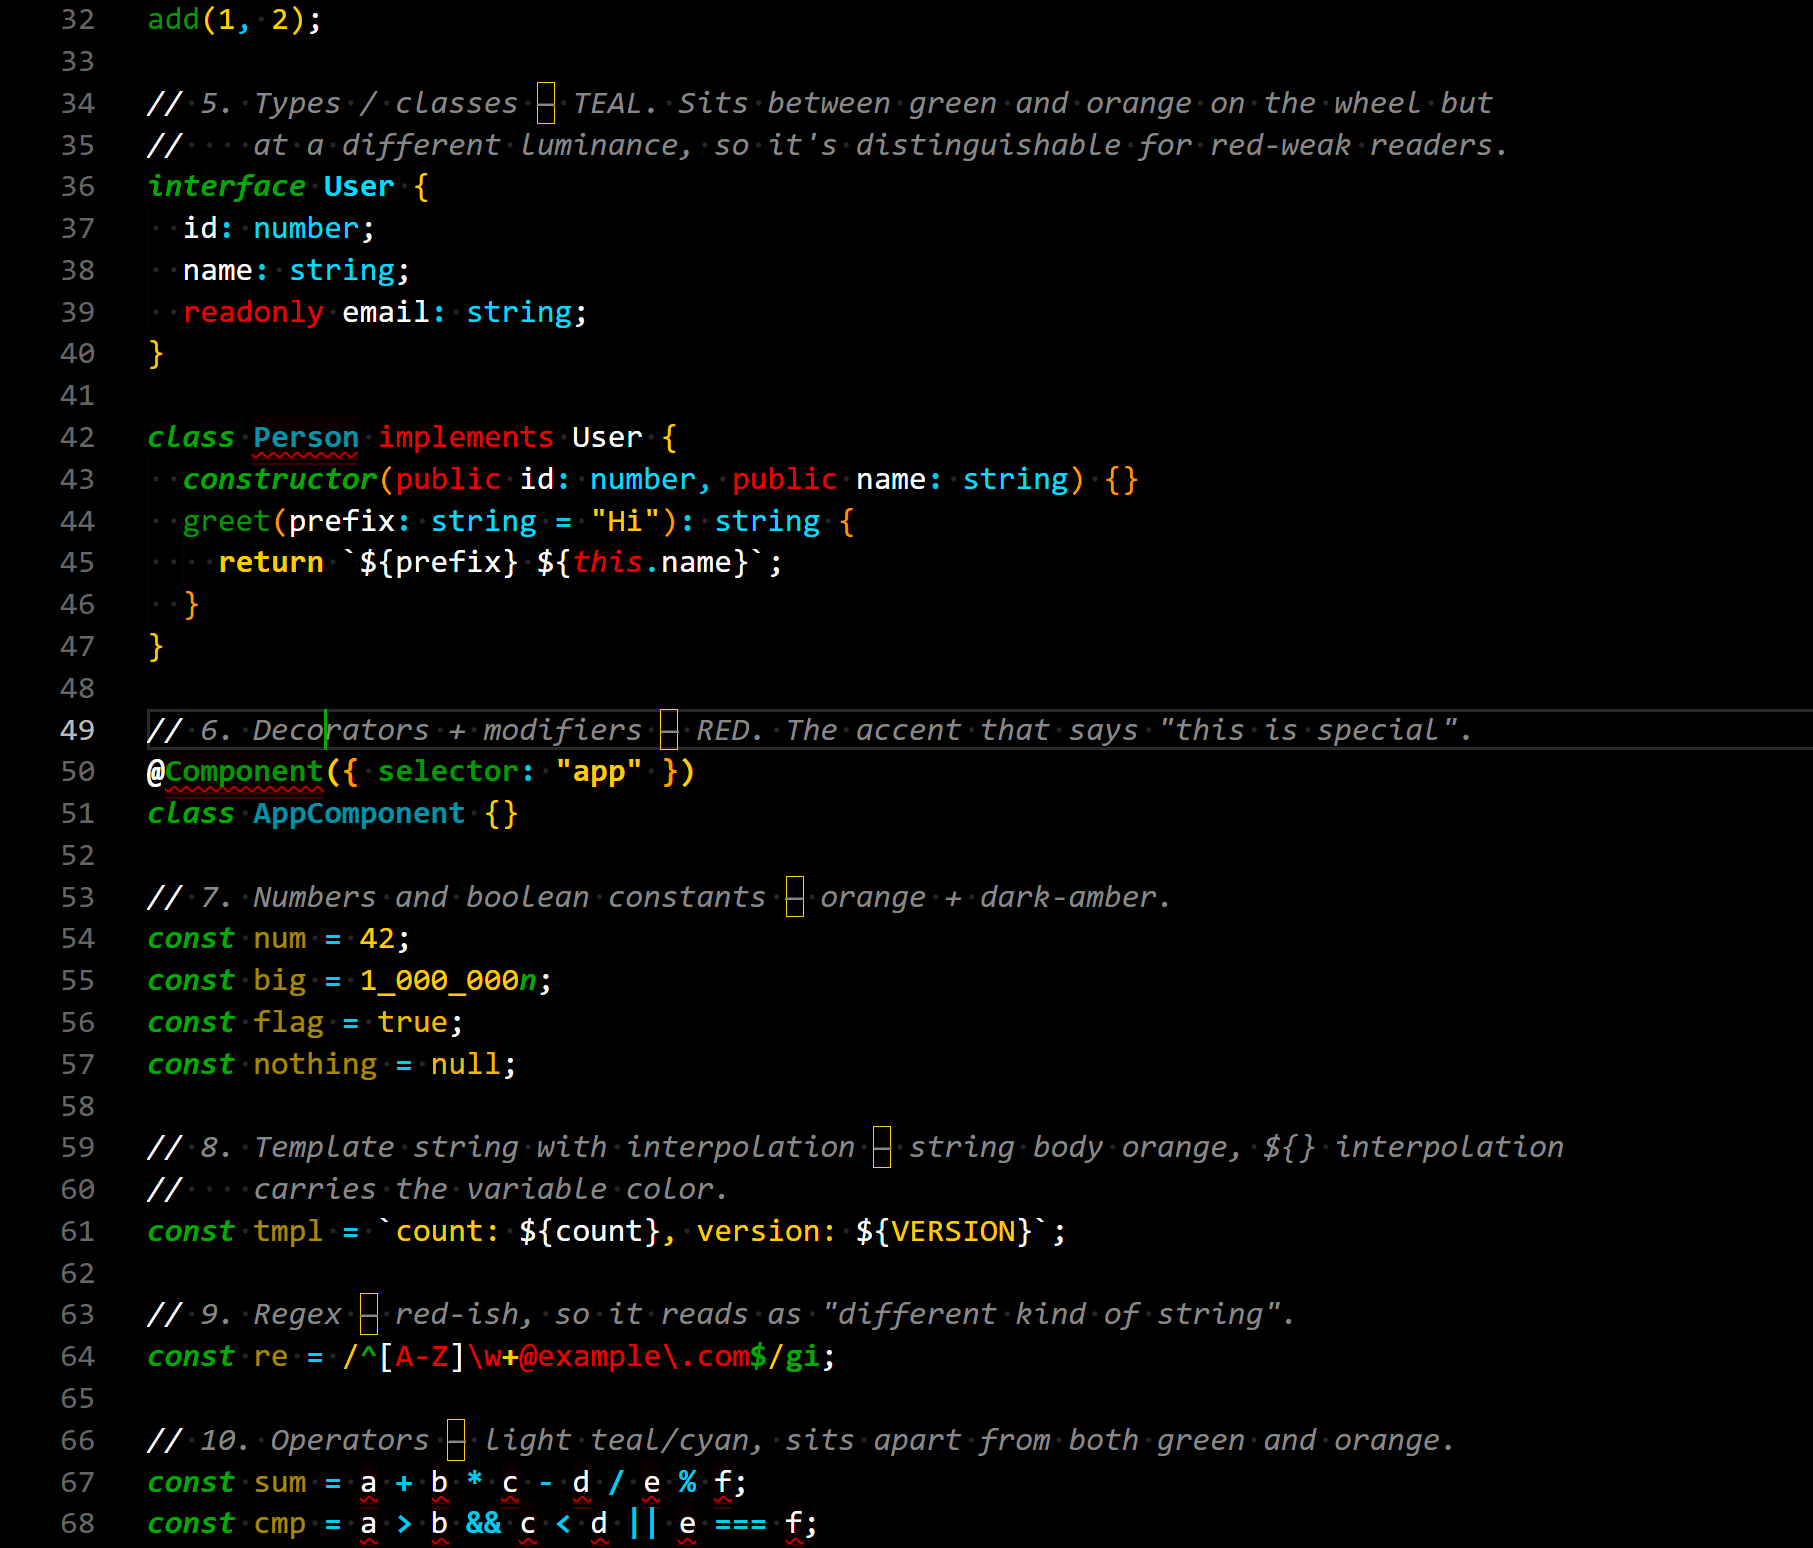
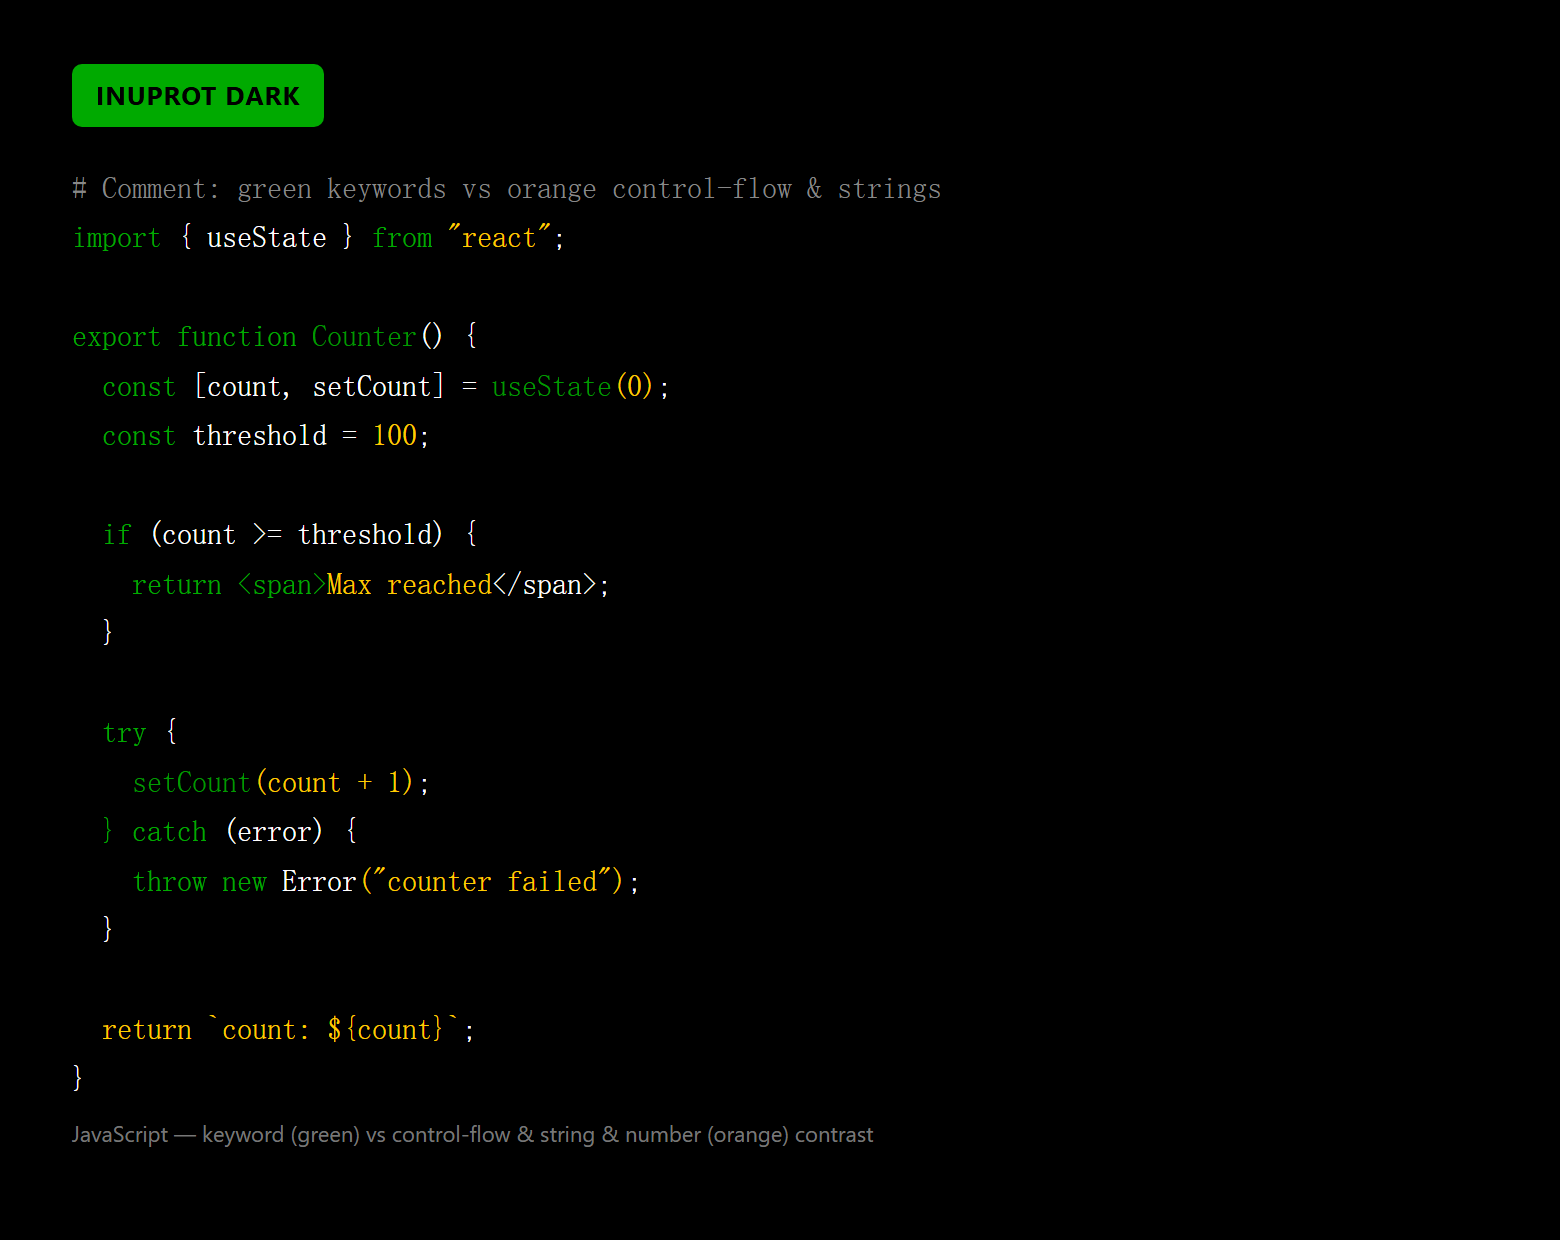
fix: update docs and author metadata for GitHub Light Colorblind rebase
- package.json / README.md / vscode/README.md: update description from
  'VS Code 2026 Light' to 'GitHub Light Colorblind (Beta)'
- source/vscode_to_sublime_colorscheme.py: fix hardcoded author string
- sublime/*: regenerate all 4 files with corrected author metadata
- previews/*.png: regenerate screenshots with new token colors

Changed region(s): [[0.0308, 0.0, 0.8615, 1.0], [0.5231, 0.5516, 0.6462, 0.5823], [0.3385, 0.1532, 0.3692, 0.1839]]

diff --git a/source/vscode_to_sublime_colorscheme.py b/source/vscode_to_sublime_colorscheme.py
@@ -60,7 +60,7 @@ def convert(in_path: Path, out_path: Path):
 
     scheme = {
         "name": data.get("name", "InuProt"),
-        "author": "CudtMFrag (InuProt), derived from Human Theme (Tom Hall) and VS Code 2026 Light.",
+        "author": "CudtMFrag (InuProt), derived from Human Theme (Tom Hall) and GitHub Light Colorblind Beta (Primer / GitHub).",
         "variables": {},
         "globals": {},
         "rules": [],

diff --git a/vscode/README.md b/vscode/README.md
@@ -7,9 +7,8 @@ Two paired themes:
   by Tom Hall, with its green ramp dimmed for better separation from the orange
   control-flow / string color.
 - **InuProt Light** — soft green-tinted background chrome.
-  Forked from VS Code's built-in **2026 Light** theme (Microsoft, MIT), with the
-  editor surface retinted to `#edf3eb` and chrome to `#e6eee4`; syntax colors
-  are inherited unchanged from the upstream `light_modern → light_plus → light_vs`
-  chain.
+  Forked from the **GitHub Light Colorblind (Beta)** theme from [GitHub VS Code Theme](https://github.com/primer/github-vscode-theme)
+  by Primer / GitHub, with the editor surface retinted to `#edf3eb` and chrome
+  to `#e6eee4`; syntax token colors are inherited unchanged from the upstream.
 
 Built via `@vscode/vsce`.

diff --git a/README.md b/README.md
@@ -33,7 +33,7 @@ accessibility, high contrast, VS Code theme, Sublime Text color scheme.
 | Variant        | Surface       | Origins                                                            |
 |----------------|---------------|-------------------------------------------------------------------|
 | **InuProt Dark**  | black + ink-green   | Forked from [Human High Contrast](https://github.com/tom-f-hall/human-theme-vscode) by Tom Hall, with the green ramp dimmed for better separation from the orange control-flow / string color. |
-| **InuProt Light** | soft green tint     | Forked from VS Code's built-in **2026 Light** theme (MIT, `microsoft/vscode`), with the editor surface retinted to `#edf3eb` and chrome to `#e6eee4`; the upstream syntax palette is inherited unchanged from the `light_modern → light_plus → light_vs` include chain. |
+| **InuProt Light** | soft green tint     | Forked from **GitHub Light Colorblind (Beta)** (`primer/github-vscode-theme`, MIT), with the editor surface retinted to `#edf3eb` and chrome to `#e6eee4`; syntax token colors are inherited unchanged (the upstream theme is already tuned for colorblind accessibility). |
 
 > **About the name.** *Prot* stands for **Protanomaly** (red-weak color
 > vision deficiency). People with protanomaly — and the more general category